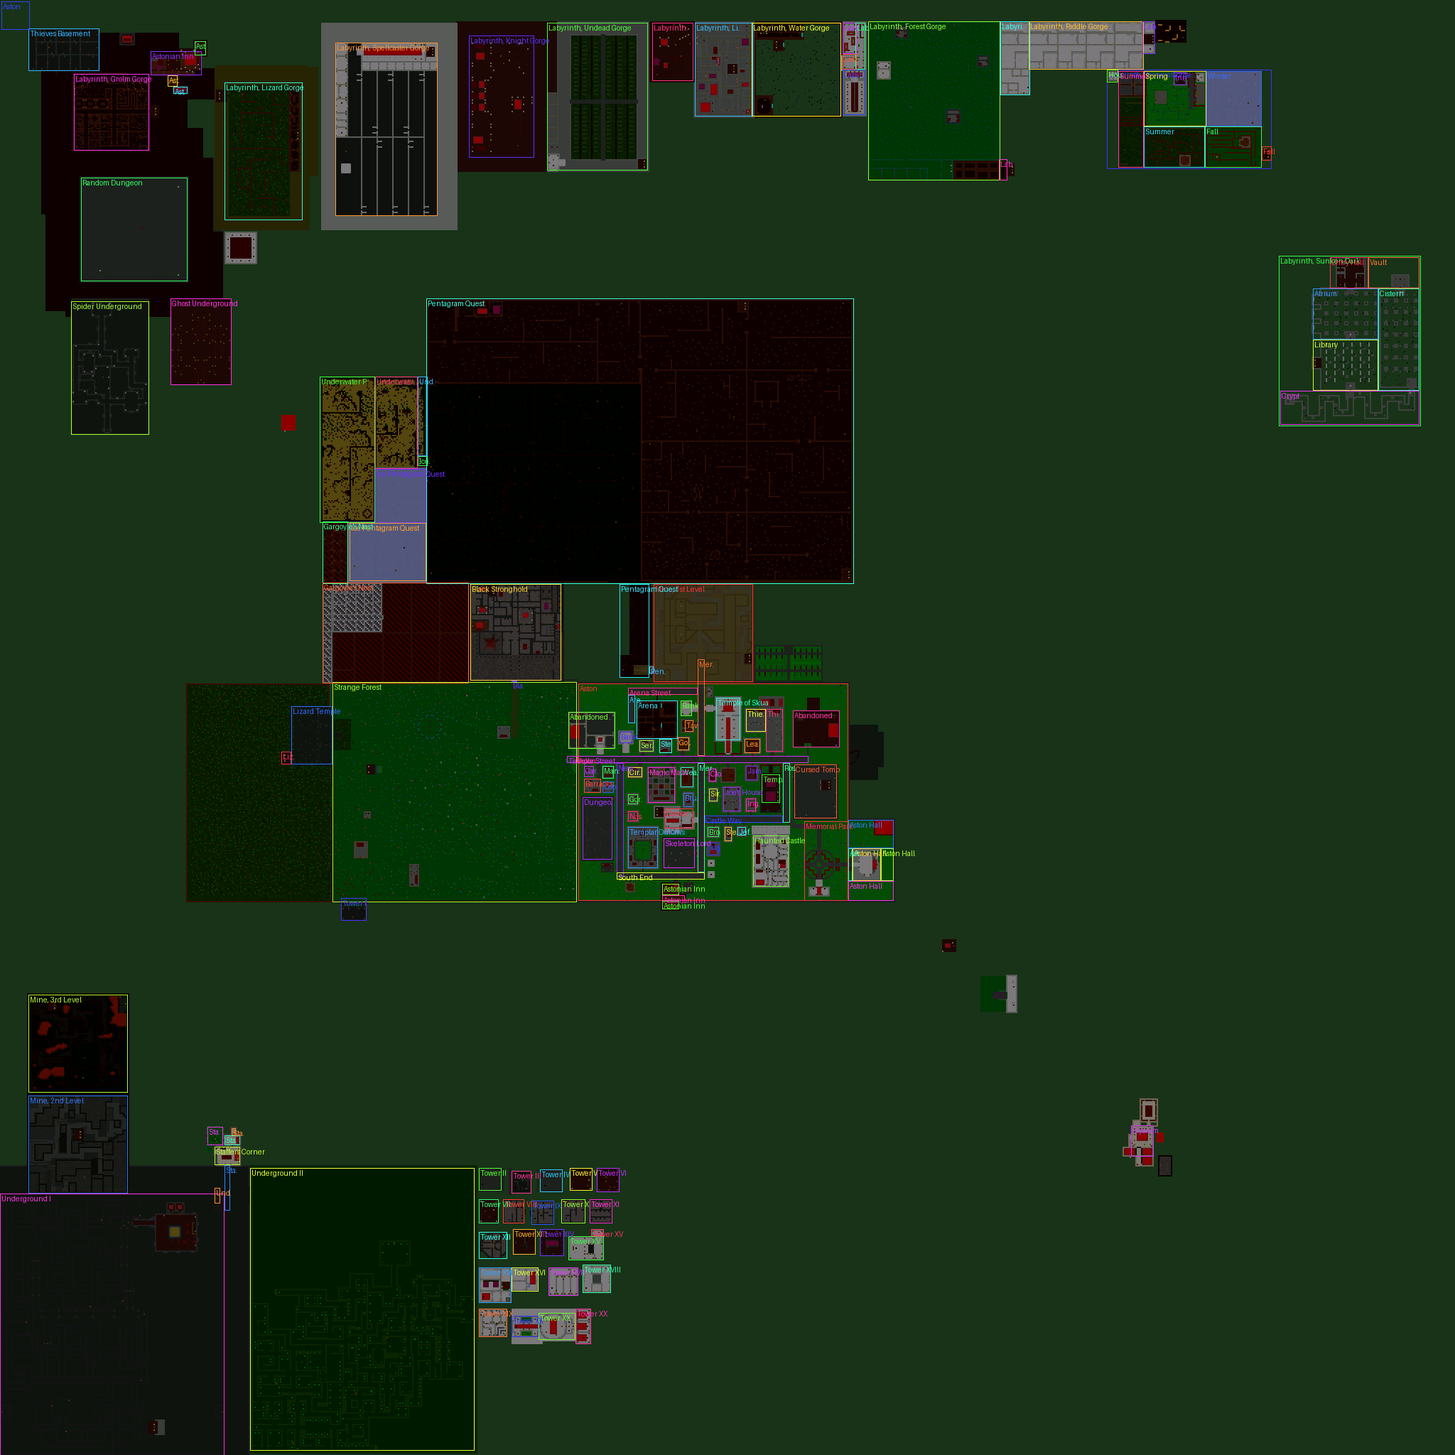
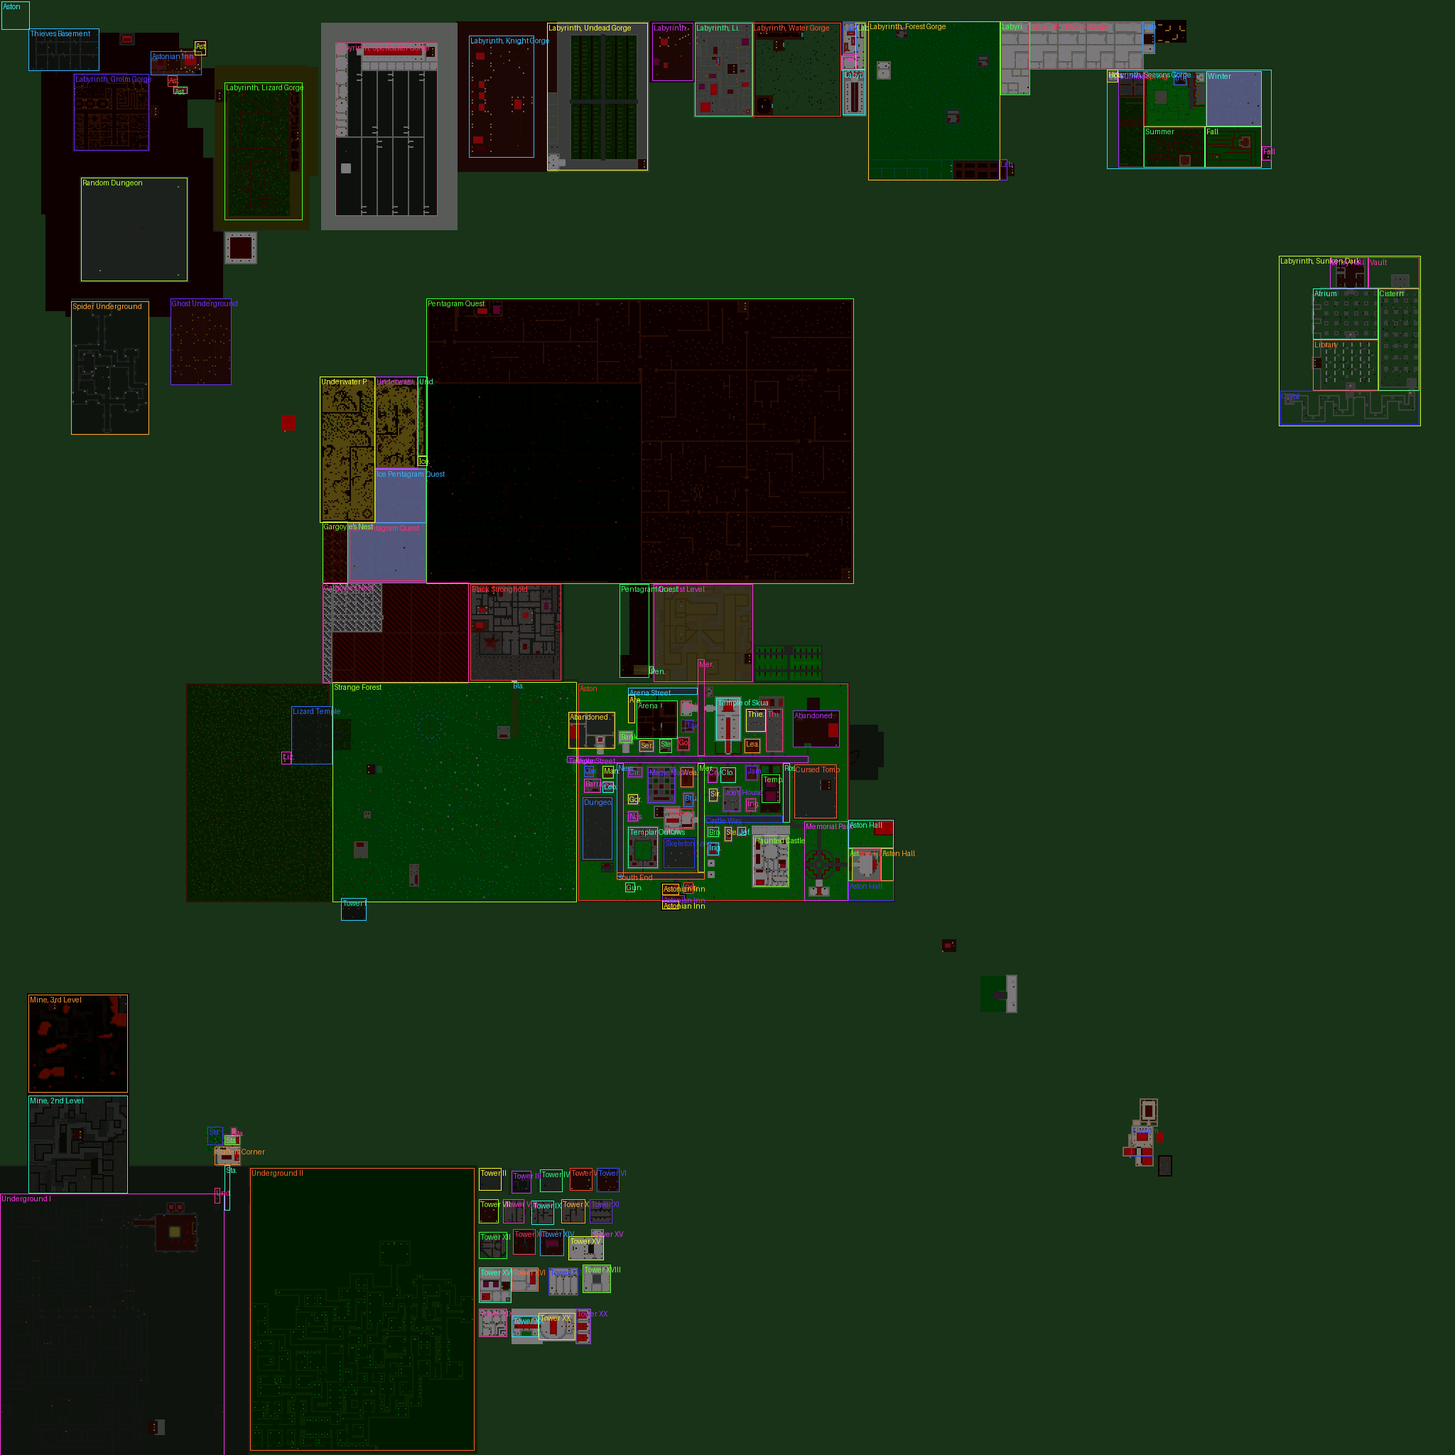
Aston zone names: Crystal and Cloth Armor Shop fixed, Gunther's and Robin's House
Claude-Session: https://claude.ai/code/session_01MSjWpMgByR7PswdtguveBk

diff --git a/server/area.c b/server/area.c
@@ -45,7 +45,8 @@ struct area area[]={
         {569,468,       582,487,        "Damor's Magic Shop",           0},
         {558,481,       567,487,        "Brunhild's Shop",              0},
         {555,499,       563,504,        "Sirjan's House",               0},
-        {541,499,       549,503,        "Cloth Armor Shop",             1},
+        {540,498,       550,504,        "Crystal Armor Shop",           1},     // Geoffrey; was labelled Cloth Armor Shop
+        {540,507,       550,517,        "Cloth Armor Shop",             1},     // Ruth, across from the Temple of Skua
         {540,479,       553,487,        "Weapon Shop",                  1},
         {507,482,       514,487,        "Tavern of the Blue Ogre",      1},
         {515,436,       522,444,        "Bank",                         1},
@@ -53,6 +54,8 @@ struct area area[]={
         {484,442,       488,490,        "Arena Street",                 2},
         {489,442,       508,446,        "Arena Street",                 2},
         {540,442,       546,451,        "Cirrus' House",                0},
+        {621,440,       627,446,        "Gunther's House",              0},
+        {621,481,       628,487,        "Robin's House",                0},
         {539,411,       546,417,        "Garna's Shop",                 0},
         {539,424,       547,431,        "Manfred's House",              0},
         {548,411,       557,422,        "Barracks",                     1},

diff --git a/docs/world_zones.md b/docs/world_zones.md
@@ -31,133 +31,136 @@ Shown by `/who`, by NPCs when asked where you are, and in server logs. A spot in
 | 21 | Damor's Magic Shop | 569,468 | 582,487 | "in Damor's Magic Shop" |
 | 22 | Brunhild's Shop | 558,481 | 567,487 | "in Brunhild's Shop" |
 | 23 | Sirjan's House | 555,499 | 563,504 | "in Sirjan's House" |
-| 24 | Cloth Armor Shop | 541,499 | 549,503 | "in the Cloth Armor Shop" |
-| 25 | Weapon Shop | 540,479 | 553,487 | "in the Weapon Shop" |
-| 26 | Tavern of the Blue Ogre | 507,482 | 514,487 | "in the Tavern of the Blue Ogre" |
-| 27 | Bank | 515,436 | 522,444 | "in the Bank" |
-| 28 | Bank | 493,479 | 503,486 | "in the Bank" |
-| 29 | Arena Street | 484,442 | 488,490 | "on Arena Street" |
-| 30 | Arena Street | 489,442 | 508,446 | "on Arena Street" |
-| 31 | Cirrus' House | 540,442 | 546,451 | "in Cirrus' House" |
-| 32 | Garna's Shop | 539,411 | 546,417 | "in Garna's Shop" |
-| 33 | Manfred's House | 539,424 | 547,431 | "in Manfred's House" |
-| 34 | Barracks | 548,411 | 557,422 | "in the Barracks" |
-| 35 | Leopold's House | 550,424 | 557,431 | "in Leopold's House" |
-| 36 | Serena's House | 521,450 | 528,459 | "in Serena's House" |
-| 37 | Magic Maze | 540,456 | 564,474 | "in the Magic Maze" |
-| 38 | Steven's House | 520,464 | 529,472 | "in Steven's House" |
-| 39 | Golden Armor Shop | 519,477 | 527,484 | "in the Golden Armor Shop" |
-| 40 | New Street | 537,434 | 616,438 | "on New Street" |
-| 41 | Gordon's House | 559,442 | 565,448 | "in Gordon's House" |
-| 42 | Nasir's House | 571,442 | 577,448 | "in Nasir's House" |
-| 43 | Templar Outlaws | 582,442 | 610,462 | "at Templar Outlaws" |
-| 44 | South End | 614,434 | 618,495 | "on South End" |
-| 45 | Skeleton Lord | 590,467 | 610,488 | "at Skeleton Lord" |
-| 46 | Merchant's Way | 537,491 | 613,495 | "on Merchant's Way" |
-| 47 | Merchant's Way | 464,491 | 531,495 | "on Merchant's Way" |
-| 48 | Ingrid's House | 593,498 | 601,505 | "in Ingrid's House" |
-| 49 | Abandoned Kwai Clan Hall | 501,400 | 526,432 | "in the Abandoned Kwai Clan Hall" |
-| 50 | Abandoned Gorn Clan Hall | 500,558 | 525,590 | "in the Abandoned Gorn Clan Hall" |
-| 51 | Arena | 493,448 | 519,476 | "in the Arena" |
-| 52 | Black Stronghold | 411,331 | 478,394 | "in the Black Stronghold" |
-| 53 | Dungeon of Doors | 561,410 | 604,430 | "in the Dungeon of Doors" |
-| 54 | Random Dungeon | 125,57 | 197,131 | "in the Random Dungeon" |
-| 55 | Mine, 1st Level | 411,460 | 479,529 | "in the Mine, 1st Level" |
-| 56 | Mine, 2nd Level | 771,20 | 839,89 | "in the Mine, 2nd Level" |
-| 57 | Mine, 3rd Level | 700,20 | 768,89 | "in the Mine, 3rd Level" |
-| 58 | Labyrinth, Grolm Gorge | 52,52 | 105,104 | "in the Labyrinth, Grolm Gorge" |
-| 59 | Labyrinth, Lizard Gorge | 58,158 | 154,212 | "in the Labyrinth, Lizard Gorge" |
-| 60 | Labyrinth, Spellcaster Gorge | 30,236 | 151,307 | "in the Labyrinth, Spellcaster Gorge" |
-| 61 | Labyrinth, Knight Gorge | 25,330 | 110,375 | "in the Labyrinth, Knight Gorge" |
-| 62 | Labyrinth, Undead Gorge | 16,385 | 119,455 | "in the Labyrinth, Undead Gorge" |
-| 63 | Labyrinth, Undead Gorge | 16,459 | 56,487 | "in the Labyrinth, Undead Gorge" |
-| 64 | Labyrinth, Light&Dark Gorge | 16,489 | 81,529 | "in the Labyrinth, Light&Dark Gorge" |
-| 65 | Labyrinth, Water Gorge | 16,529 | 81,591 | "in the Labyrinth, Water Gorge" |
-| 66 | Labyrinth, Final Entry | 16,593 | 37,602 | "in the Labyrinth, Final Entry" |
-| 67 | Labyrinth, Final Preparations | 16,602 | 48,608 | "in the Labyrinth, Final Preparations" |
-| 68 | Labyrinth, Final Test | 38,593 | 48,602 | "in the Labyrinth, Final Test" |
-| 69 | Labyrinth, Final Reward | 49,593 | 80,608 | "in the Labyrinth, Final Reward" |
-| 70 | Labyrinth, Forest Gorge | 15,611 | 126,703 | "in the Labyrinth, Forest Gorge" |
-| 71 | Labyrinth, Forest Gorge | 112,703 | 126,708 | "in the Labyrinth, Forest Gorge" |
-| 72 | Labyrinth, Riddle Gorge | 15,704 | 66,724 | "in the Labyrinth, Riddle Gorge" |
-| 73 | Labyrinth, Riddle Gorge | 15,724 | 48,804 | "in the Labyrinth, Riddle Gorge" |
-| 74 | Labyrinth, Riddle Gorge | 15,804 | 37,812 | "in the Labyrinth, Riddle Gorge" |
-| 75 | Labyrinth, Sunken Dark | 180,900 | 299,999 | "in the Labyrinth, Sunken Dark" |
-| 76 | Entry Hall | 181,936 | 202,962 | "in the Entry Hall" |
-| 77 | Atrium | 203,924 | 238,969 | "in the Atrium" |
-| 78 | Library | 239,924 | 274,969 | "in the Library" |
-| 79 | Crypt | 275,901 | 298,998 | "in the Crypt" |
-| 80 | Cistern | 203,970 | 274,998 | "in the Cistern" |
-| 81 | Vault | 181,963 | 202,998 | "in the Vault" |
-| 82 | Labyrinth, Seasons Gorge | 49,779 | 118,894 | "in the Labyrinth, Seasons Gorge" |
-| 83 | Hourglass Chamber | 49,779 | 57,786 | "in the Hourglass Chamber" |
-| 84 | Summer | 50,787 | 117,804 | "in Summer" |
-| 85 | Summer | 89,805 | 117,847 | "in Summer" |
-| 86 | Spring | 50,805 | 88,848 | "in Spring" |
-| 87 | Inn | 51,826 | 59,834 | "in the Inn" |
-| 88 | Fall | 89,848 | 117,887 | "in Fall" |
-| 89 | Fall | 103,888 | 112,894 | "in Fall" |
-| 90 | Winter | 50,849 | 88,887 | "in Winter" |
-| 91 | Spider Underground | 212,50 | 305,104 | "in the Spider Underground" |
-| 92 | Ghost Underground | 210,120 | 270,162 | "in the Ghost Underground" |
-| 93 | Pentagram Quest | 210,300 | 410,600 | "in the Pentagram Quest" |
-| 94 | Ice Pentagram Quest | 368,246 | 408,299 | "in the Ice Pentagram Quest" |
-| 95 | Ice Pentagram Quest | 330,264 | 367,299 | "in the Ice Pentagram Quest" |
-| 96 | Underwater Pentagram Quest | 265,225 | 367,263 | "in the Underwater Pentagram Quest" |
-| 97 | Underwater Pentagram Quest | 265,264 | 329,293 | "in the Underwater Pentagram Quest" |
-| 98 | Underwater Pentagram Quest | 265,294 | 320,300 | "in the Underwater Pentagram Quest" |
-| 99 | Underground II | 822,176 | 1020,333 | "in the Underground II" |
-| 100 | Elysium | 792,796 | 813,811 | "in the Elysium" |
-| 101 | Gargoyle's Nest | 367,227 | 410,244 | "in the Gargoyle's Nest" |
-| 102 | Gargoyle's Nest | 410,227 | 480,329 | "in the Gargoyle's Nest" |
-| 103 | Aston | 1,1 | 20,20 | "in Aston" |
-| 104 | Astonian Inn | 622,466 | 629,477 | "in the Astonian Inn" |
-| 105 | Astonian Inn | 630,466 | 633,481 | "in the Astonian Inn" |
-| 106 | Astonian Inn | 61,122 | 65,131 | "in the Astonian Inn" |
-| 107 | Astonian Inn | 53,118 | 60,124 | "in the Astonian Inn" |
-| 108 | Astonian Inn | 36,106 | 52,141 | "in the Astonian Inn" |
-| 109 | Astonian Inn | 29,137 | 38,144 | "in the Astonian Inn" |
-| 110 | Memorial Park | 578,566 | 633,596 | "in the Memorial Park" |
-| 111 | Staffers Corner | 820,158 | 851,161 | "in the Staffers Corner" |
-| 112 | Staffers Corner | 807,151 | 819,168 | "in the Staffers Corner" |
-| 113 | Staffers Corner | 793,146 | 805,156 | "in the Staffers Corner" |
-| 114 | Staffers Corner | 799,158 | 805,168 | "in the Staffers Corner" |
-| 115 | Staffers Corner | 794,163 | 798,165 | "in the Staffers Corner" |
-| 116 | Tower I | 632,240 | 647,257 | "in the Tower I" |
-| 117 | Tower II | 822,337 | 837,352 | "in the Tower II" |
-| 118 | Tower III | 824,360 | 839,373 | "in the Tower III" |
-| 119 | Tower IV | 823,380 | 838,395 | "in the Tower IV" |
-| 120 | Tower V | 822,401 | 837,416 | "in the Tower V" |
-| 121 | Tower VI | 822,420 | 838,435 | "in the Tower VI" |
-| 122 | Tower VII | 844,337 | 860,350 | "in the Tower VII" |
-| 123 | Tower VIII | 844,354 | 860,368 | "in the Tower VIII" |
-| 124 | Tower IX | 845,374 | 861,389 | "in the Tower IX" |
-| 125 | Tower X | 844,395 | 860,411 | "in the Tower X" |
-| 126 | Tower XI | 844,415 | 860,430 | "in the Tower XI" |
-| 127 | Tower XII | 867,337 | 885,356 | "in the Tower XII" |
-| 128 | Tower XIII | 865,361 | 882,376 | "in the Tower XIII" |
-| 129 | Tower XIV | 865,380 | 883,396 | "in the Tower XIV" |
-| 130 | Tower XV | 870,400 | 886,424 | "in the Tower XV" |
-| 131 | Tower XV | 865,416 | 869,424 | "in the Tower XV" |
-| 132 | Tower XVI | 892,337 | 916,359 | "in the Tower XVI" |
-| 133 | Tower XVI | 892,360 | 908,378 | "in the Tower XVI" |
-| 134 | Tower XVII | 892,386 | 911,406 | "in the Tower XVII" |
-| 135 | Tower XVIII | 890,410 | 909,429 | "in the Tower XVIII" |
-| 136 | Tower XIX | 921,337 | 940,356 | "in the Tower XIX" |
-| 137 | Tower XX | 926,360 | 940,378 | "in the Tower XX" |
-| 138 | Tower XX | 924,379 | 942,404 | "in the Tower XX" |
-| 139 | Tower XX | 921,405 | 945,415 | "in the Tower XX" |
-| 140 | Pentagram Quest | 411,436 | 476,456 | "in the Pentagram Quest" |
-| 141 | Aston Hall | 597,600 | 619,619 | "in Aston Hall" |
-| 142 | Lizard Temple Shrine | 529,198 | 537,204 | "in the Lizard Temple Shrine" |
-| 143 | Ice Pents Shrine | 321,294 | 327,300 | "in the Ice Pents Shrine" |
-| 144 | Lizard Temple Shrine | 529,198 | 537,204 | "in the Lizard Temple Shrine" |
-| 145 | Aston Hall | 577,597 | 596,628 | "in the Aston Hall" |
-| 146 | Aston Hall | 597,620 | 619,628 | "in the Aston Hall" |
-| 147 | Aston Hall | 620,597 | 633,628 | "in the Aston Hall" |
-| 148 | Aston Hall | 597,597 | 619,599 | "in the Aston Hall" |
-| 149 | Underground I | 836,151 | 846,154 | "in the Underground I" |
-| 150 | Black Stronghold | 479,360 | 479,363 | "in the Black Stronghold" |
-| 151 | Astonian Inn | 634,466 | 639,477 | "in the Astonian Inn" |
-| 152 | Aston | 532,406 | 536,406 | "in Aston" |
-| 153 | Pentagram Quest | 469,457 | 473,459 | "in the Pentagram Quest" |
+| 24 | Crystal Armor Shop | 540,498 | 550,504 | "in the Crystal Armor Shop" |
+| 25 | Cloth Armor Shop | 540,507 | 550,517 | "in the Cloth Armor Shop" |
+| 26 | Weapon Shop | 540,479 | 553,487 | "in the Weapon Shop" |
+| 27 | Tavern of the Blue Ogre | 507,482 | 514,487 | "in the Tavern of the Blue Ogre" |
+| 28 | Bank | 515,436 | 522,444 | "in the Bank" |
+| 29 | Bank | 493,479 | 503,486 | "in the Bank" |
+| 30 | Arena Street | 484,442 | 488,490 | "on Arena Street" |
+| 31 | Arena Street | 489,442 | 508,446 | "on Arena Street" |
+| 32 | Cirrus' House | 540,442 | 546,451 | "in Cirrus' House" |
+| 33 | Gunther's House | 621,440 | 627,446 | "in Gunther's House" |
+| 34 | Robin's House | 621,481 | 628,487 | "in Robin's House" |
+| 35 | Garna's Shop | 539,411 | 546,417 | "in Garna's Shop" |
+| 36 | Manfred's House | 539,424 | 547,431 | "in Manfred's House" |
+| 37 | Barracks | 548,411 | 557,422 | "in the Barracks" |
+| 38 | Leopold's House | 550,424 | 557,431 | "in Leopold's House" |
+| 39 | Serena's House | 521,450 | 528,459 | "in Serena's House" |
+| 40 | Magic Maze | 540,456 | 564,474 | "in the Magic Maze" |
+| 41 | Steven's House | 520,464 | 529,472 | "in Steven's House" |
+| 42 | Golden Armor Shop | 519,477 | 527,484 | "in the Golden Armor Shop" |
+| 43 | New Street | 537,434 | 616,438 | "on New Street" |
+| 44 | Gordon's House | 559,442 | 565,448 | "in Gordon's House" |
+| 45 | Nasir's House | 571,442 | 577,448 | "in Nasir's House" |
+| 46 | Templar Outlaws | 582,442 | 610,462 | "at Templar Outlaws" |
+| 47 | South End | 614,434 | 618,495 | "on South End" |
+| 48 | Skeleton Lord | 590,467 | 610,488 | "at Skeleton Lord" |
+| 49 | Merchant's Way | 537,491 | 613,495 | "on Merchant's Way" |
+| 50 | Merchant's Way | 464,491 | 531,495 | "on Merchant's Way" |
+| 51 | Ingrid's House | 593,498 | 601,505 | "in Ingrid's House" |
+| 52 | Abandoned Kwai Clan Hall | 501,400 | 526,432 | "in the Abandoned Kwai Clan Hall" |
+| 53 | Abandoned Gorn Clan Hall | 500,558 | 525,590 | "in the Abandoned Gorn Clan Hall" |
+| 54 | Arena | 493,448 | 519,476 | "in the Arena" |
+| 55 | Black Stronghold | 411,331 | 478,394 | "in the Black Stronghold" |
+| 56 | Dungeon of Doors | 561,410 | 604,430 | "in the Dungeon of Doors" |
+| 57 | Random Dungeon | 125,57 | 197,131 | "in the Random Dungeon" |
+| 58 | Mine, 1st Level | 411,460 | 479,529 | "in the Mine, 1st Level" |
+| 59 | Mine, 2nd Level | 771,20 | 839,89 | "in the Mine, 2nd Level" |
+| 60 | Mine, 3rd Level | 700,20 | 768,89 | "in the Mine, 3rd Level" |
+| 61 | Labyrinth, Grolm Gorge | 52,52 | 105,104 | "in the Labyrinth, Grolm Gorge" |
+| 62 | Labyrinth, Lizard Gorge | 58,158 | 154,212 | "in the Labyrinth, Lizard Gorge" |
+| 63 | Labyrinth, Spellcaster Gorge | 30,236 | 151,307 | "in the Labyrinth, Spellcaster Gorge" |
+| 64 | Labyrinth, Knight Gorge | 25,330 | 110,375 | "in the Labyrinth, Knight Gorge" |
+| 65 | Labyrinth, Undead Gorge | 16,385 | 119,455 | "in the Labyrinth, Undead Gorge" |
+| 66 | Labyrinth, Undead Gorge | 16,459 | 56,487 | "in the Labyrinth, Undead Gorge" |
+| 67 | Labyrinth, Light&Dark Gorge | 16,489 | 81,529 | "in the Labyrinth, Light&Dark Gorge" |
+| 68 | Labyrinth, Water Gorge | 16,529 | 81,591 | "in the Labyrinth, Water Gorge" |
+| 69 | Labyrinth, Final Entry | 16,593 | 37,602 | "in the Labyrinth, Final Entry" |
+| 70 | Labyrinth, Final Preparations | 16,602 | 48,608 | "in the Labyrinth, Final Preparations" |
+| 71 | Labyrinth, Final Test | 38,593 | 48,602 | "in the Labyrinth, Final Test" |
+| 72 | Labyrinth, Final Reward | 49,593 | 80,608 | "in the Labyrinth, Final Reward" |
+| 73 | Labyrinth, Forest Gorge | 15,611 | 126,703 | "in the Labyrinth, Forest Gorge" |
+| 74 | Labyrinth, Forest Gorge | 112,703 | 126,708 | "in the Labyrinth, Forest Gorge" |
+| 75 | Labyrinth, Riddle Gorge | 15,704 | 66,724 | "in the Labyrinth, Riddle Gorge" |
+| 76 | Labyrinth, Riddle Gorge | 15,724 | 48,804 | "in the Labyrinth, Riddle Gorge" |
+| 77 | Labyrinth, Riddle Gorge | 15,804 | 37,812 | "in the Labyrinth, Riddle Gorge" |
+| 78 | Labyrinth, Sunken Dark | 180,900 | 299,999 | "in the Labyrinth, Sunken Dark" |
+| 79 | Entry Hall | 181,936 | 202,962 | "in the Entry Hall" |
+| 80 | Atrium | 203,924 | 238,969 | "in the Atrium" |
+| 81 | Library | 239,924 | 274,969 | "in the Library" |
+| 82 | Crypt | 275,901 | 298,998 | "in the Crypt" |
+| 83 | Cistern | 203,970 | 274,998 | "in the Cistern" |
+| 84 | Vault | 181,963 | 202,998 | "in the Vault" |
+| 85 | Labyrinth, Seasons Gorge | 49,779 | 118,894 | "in the Labyrinth, Seasons Gorge" |
+| 86 | Hourglass Chamber | 49,779 | 57,786 | "in the Hourglass Chamber" |
+| 87 | Summer | 50,787 | 117,804 | "in Summer" |
+| 88 | Summer | 89,805 | 117,847 | "in Summer" |
+| 89 | Spring | 50,805 | 88,848 | "in Spring" |
+| 90 | Inn | 51,826 | 59,834 | "in the Inn" |
+| 91 | Fall | 89,848 | 117,887 | "in Fall" |
+| 92 | Fall | 103,888 | 112,894 | "in Fall" |
+| 93 | Winter | 50,849 | 88,887 | "in Winter" |
+| 94 | Spider Underground | 212,50 | 305,104 | "in the Spider Underground" |
+| 95 | Ghost Underground | 210,120 | 270,162 | "in the Ghost Underground" |
+| 96 | Pentagram Quest | 210,300 | 410,600 | "in the Pentagram Quest" |
+| 97 | Ice Pentagram Quest | 368,246 | 408,299 | "in the Ice Pentagram Quest" |
+| 98 | Ice Pentagram Quest | 330,264 | 367,299 | "in the Ice Pentagram Quest" |
+| 99 | Underwater Pentagram Quest | 265,225 | 367,263 | "in the Underwater Pentagram Quest" |
+| 100 | Underwater Pentagram Quest | 265,264 | 329,293 | "in the Underwater Pentagram Quest" |
+| 101 | Underwater Pentagram Quest | 265,294 | 320,300 | "in the Underwater Pentagram Quest" |
+| 102 | Underground II | 822,176 | 1020,333 | "in the Underground II" |
+| 103 | Elysium | 792,796 | 813,811 | "in the Elysium" |
+| 104 | Gargoyle's Nest | 367,227 | 410,244 | "in the Gargoyle's Nest" |
+| 105 | Gargoyle's Nest | 410,227 | 480,329 | "in the Gargoyle's Nest" |
+| 106 | Aston | 1,1 | 20,20 | "in Aston" |
+| 107 | Astonian Inn | 622,466 | 629,477 | "in the Astonian Inn" |
+| 108 | Astonian Inn | 630,466 | 633,481 | "in the Astonian Inn" |
+| 109 | Astonian Inn | 61,122 | 65,131 | "in the Astonian Inn" |
+| 110 | Astonian Inn | 53,118 | 60,124 | "in the Astonian Inn" |
+| 111 | Astonian Inn | 36,106 | 52,141 | "in the Astonian Inn" |
+| 112 | Astonian Inn | 29,137 | 38,144 | "in the Astonian Inn" |
+| 113 | Memorial Park | 578,566 | 633,596 | "in the Memorial Park" |
+| 114 | Staffers Corner | 820,158 | 851,161 | "in the Staffers Corner" |
+| 115 | Staffers Corner | 807,151 | 819,168 | "in the Staffers Corner" |
+| 116 | Staffers Corner | 793,146 | 805,156 | "in the Staffers Corner" |
+| 117 | Staffers Corner | 799,158 | 805,168 | "in the Staffers Corner" |
+| 118 | Staffers Corner | 794,163 | 798,165 | "in the Staffers Corner" |
+| 119 | Tower I | 632,240 | 647,257 | "in the Tower I" |
+| 120 | Tower II | 822,337 | 837,352 | "in the Tower II" |
+| 121 | Tower III | 824,360 | 839,373 | "in the Tower III" |
+| 122 | Tower IV | 823,380 | 838,395 | "in the Tower IV" |
+| 123 | Tower V | 822,401 | 837,416 | "in the Tower V" |
+| 124 | Tower VI | 822,420 | 838,435 | "in the Tower VI" |
+| 125 | Tower VII | 844,337 | 860,350 | "in the Tower VII" |
+| 126 | Tower VIII | 844,354 | 860,368 | "in the Tower VIII" |
+| 127 | Tower IX | 845,374 | 861,389 | "in the Tower IX" |
+| 128 | Tower X | 844,395 | 860,411 | "in the Tower X" |
+| 129 | Tower XI | 844,415 | 860,430 | "in the Tower XI" |
+| 130 | Tower XII | 867,337 | 885,356 | "in the Tower XII" |
+| 131 | Tower XIII | 865,361 | 882,376 | "in the Tower XIII" |
+| 132 | Tower XIV | 865,380 | 883,396 | "in the Tower XIV" |
+| 133 | Tower XV | 870,400 | 886,424 | "in the Tower XV" |
+| 134 | Tower XV | 865,416 | 869,424 | "in the Tower XV" |
+| 135 | Tower XVI | 892,337 | 916,359 | "in the Tower XVI" |
+| 136 | Tower XVI | 892,360 | 908,378 | "in the Tower XVI" |
+| 137 | Tower XVII | 892,386 | 911,406 | "in the Tower XVII" |
+| 138 | Tower XVIII | 890,410 | 909,429 | "in the Tower XVIII" |
+| 139 | Tower XIX | 921,337 | 940,356 | "in the Tower XIX" |
+| 140 | Tower XX | 926,360 | 940,378 | "in the Tower XX" |
+| 141 | Tower XX | 924,379 | 942,404 | "in the Tower XX" |
+| 142 | Tower XX | 921,405 | 945,415 | "in the Tower XX" |
+| 143 | Pentagram Quest | 411,436 | 476,456 | "in the Pentagram Quest" |
+| 144 | Aston Hall | 597,600 | 619,619 | "in Aston Hall" |
+| 145 | Lizard Temple Shrine | 529,198 | 537,204 | "in the Lizard Temple Shrine" |
+| 146 | Ice Pents Shrine | 321,294 | 327,300 | "in the Ice Pents Shrine" |
+| 147 | Lizard Temple Shrine | 529,198 | 537,204 | "in the Lizard Temple Shrine" |
+| 148 | Aston Hall | 577,597 | 596,628 | "in the Aston Hall" |
+| 149 | Aston Hall | 597,620 | 619,628 | "in the Aston Hall" |
+| 150 | Aston Hall | 620,597 | 633,628 | "in the Aston Hall" |
+| 151 | Aston Hall | 597,597 | 619,599 | "in the Aston Hall" |
+| 152 | Underground I | 836,151 | 846,154 | "in the Underground I" |
+| 153 | Black Stronghold | 479,360 | 479,363 | "in the Black Stronghold" |
+| 154 | Astonian Inn | 634,466 | 639,477 | "in the Astonian Inn" |
+| 155 | Aston | 532,406 | 536,406 | "in Aston" |
+| 156 | Pentagram Quest | 469,457 | 473,459 | "in the Pentagram Quest" |

diff --git a/CHANGES.md b/CHANGES.md
@@ -189,6 +189,7 @@ A new labyrinth part after Lab 10 (map 180,900 - 299,999). Its layout is an Exce
   - **Spider Underground** (through the hole in the Abandoned Kwai Clan Hall, Spider Queen) and **Ghost Underground** (through the hole in the Abandoned Gorn Clan Hall, Ghost King) had no name.
   - **Aston streets**: Temple Street runs the whole way from the town gate to the Gorn Clan Hall (Rose Street starts south of it), Merchant's Way goes on north of Temple Street up to the mines, and the street around the arena is **Arena Street**, with new street signs where it meets Merchant's Way (plus Merchant's Way signs north of Temple Street; `tools/world/aston_signs.txt`).
   - The second **Bank**, across from the Temple of Skua, had no name.
+  - The shop labelled "Cloth Armor Shop" is Geoffrey's **Crystal Armor Shop** (its sign says so); Ruth's real **Cloth Armor Shop**, across from the Temple of Skua, had no name. On South End, **Gunther's House** and **Robin's House** now have names.
   - **Steven's House** reached into the arena; it now covers the house only.
   - Four buildings west of New Street now have names: **Garna's Shop** (torches, lock picks, flasks), **Manfred's House**, **Leopold's House** and the **Barracks** (Peacekeepers and a Cityguard).
   - **Ice Pentagram Quest** was one rectangle that also took in part of the water next to it; it is now two rectangles around the ice only, and the water is named **Underwater Pentagram Quest**.
